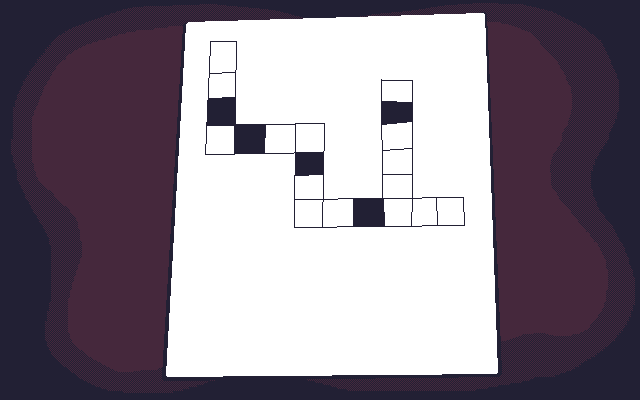
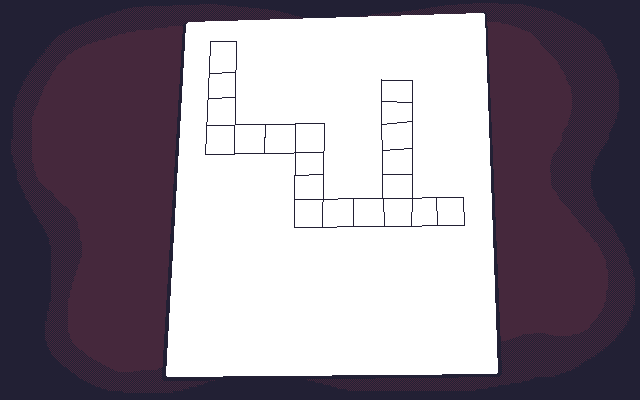
fix crossword styles

diff --git a/styles/east.css b/styles/east.css
@@ -240,6 +240,7 @@ div[id^=gl-] {
 
 #gl-2 {
   left: 210px;
+  height: 23px;
   top: 74px
 }
 
@@ -318,14 +319,15 @@ div[id^=gl-] {
 }
 
 #gl-17 {
-  height: 20px;
+  height: 18px;
   left: 386px;
-  top: 101px
+  top: 103px
 }
 
 #gl-18 {
+  height: 23px;
   left: 385px;
-  top: 123px
+  top: 125px;
 }
 
 #gl-19 {
@@ -338,11 +340,6 @@ div[id^=gl-] {
   height: 22px;
   left: 385px;
   top: 175px
-}
-
-:is(#gl-3, #gl-5, #gl-8, #gl-12, #gl-17) label {
-  background: var(--color-midnight);
-  color: #fff;
 }
 
 #globe-clues {
@@ -388,5 +385,6 @@ div[id^=gl-] {
 
   :is(#gl-3, #gl-5, #gl-8, #gl-12, #gl-17) label {
     background: var(--color-green);
+    color: #fff;
   }
 }
